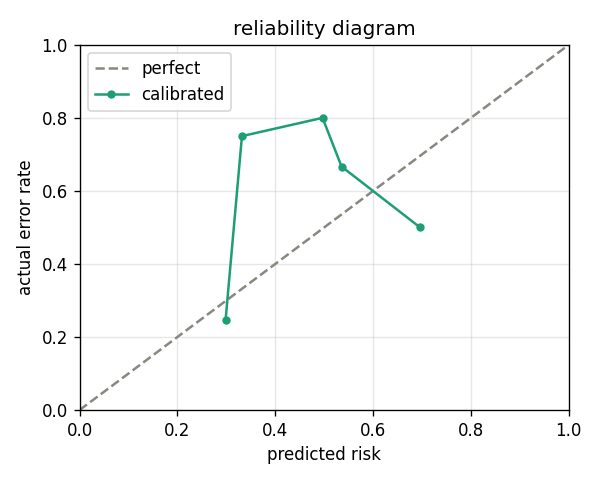
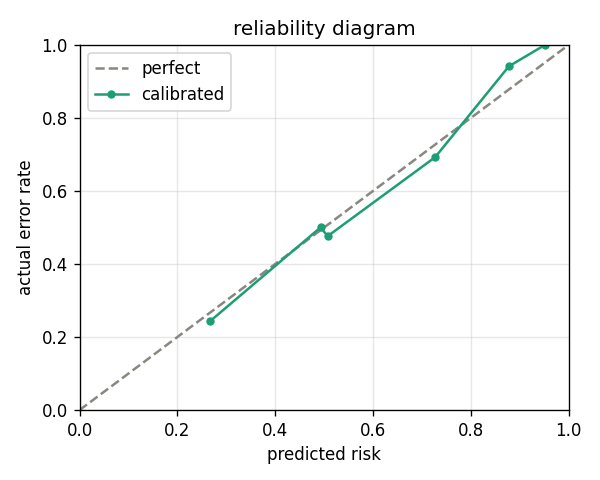
S1b-real: provable risk-controlled threshold (binomial UCB) + saved-eval re-analysis

diff --git a/tests/test_real_invoice.py b/tests/test_real_invoice.py
@@ -1,65 +1,118 @@
-"""§1b (real): the parser recovers source_text and the mapped gold fields from the
-dataset's nested string-encoded rows. Tests the parsing offline (no download)."""
-import json
+"""THE honest evaluation. Runs the real Ollama extractor over real invoice-OCR
+documents (mychen76/invoices-and-receipts_ocr_v1), fits the calibrator on the real
+calibration split, and measures the risk-coverage curve on the untouched real test
+split. Neither the OCR noise nor the model's errors are authored by us, so these
+numbers are honest -- comparable to production trust-gate reports.
 
-from gatekeeper.data.real_invoice import parse_row, _to_obj
+Needs Ollama running and the datasets library:
+    pip install -e ".[real,eval]"     (datasets + matplotlib)
+    python examples/real_invoice_eval.py --limit 120
 
+Note: downloads ~282MB the first time and runs the model over the split (a few
+minutes). Use --offline to sanity-check plumbing without Ollama (degenerate).
+"""
+import argparse
 
-def _make_row():
-    # reconstruct the dataset's storage format: JSON strings whose values are
-    # Python-repr strings (single quotes), as mychen76/...ocr_v1 stores them.
-    ocr = ['Invoice no: 40378170', 'Date of issue:', '10/15/2012',
-           'Seller:', 'Patel, Thompson and Montgomery', '356 Kyle Vista',
-           'Client:', 'Jackson, Odonnell and Jackson', 'SUMMARY', 'Total', '66,00']
-    labels = {'header': {'invoice_no': '40378170', 'invoice_date': '10/15/2012',
-                         'seller': 'Patel, Thompson and Montgomery 356 Kyle Vista'},
-              'summary': {'total_gross_worth': '$66,00'}}
-    raw_data = json.dumps({"ocr_words": str(ocr)})
-    parsed_data = json.dumps({"xml": "", "json": str(labels)})
-    return raw_data, parsed_data
-
-
-def test_parse_row_recovers_text_and_fields():
-    raw_data, parsed_data = _make_row()
-    source_text, gold = parse_row(raw_data, parsed_data)
-
-    assert "Invoice no: 40378170" in source_text
-    assert "Jackson, Odonnell and Jackson" in source_text          # OCR ordering preserved
-    assert gold["invoice_number"] == "40378170"
-    assert gold["invoice_date"] == "10/15/2012"
-    assert gold["vendor_name"].startswith("Patel, Thompson and Montgomery")
-    assert gold["total_amount"] == "$66,00"
+from gatekeeper import invoice_schema, is_correct
+from gatekeeper.data import RealInvoiceLoader, split_examples
+from gatekeeper.extract import LLMExtractor, OllamaClient, FakeClient
+from gatekeeper.signals import GroundingSignal, RuleSignal, SelfConsistencySignal
+from gatekeeper.calibration import (
+    LogisticCalibrator, build_training_data, expected_calibration_error,
+)
+from gatekeeper.evaluation import (
+    collect_risk_labels, selective_error_at_coverage, aurc,
+)
 
 
-def test_to_obj_handles_json_and_repr_and_passthrough():
-    assert _to_obj('{"a": 1}') == {"a": 1}                          # json
-    assert _to_obj("{'a': 1}") == {"a": 1}                          # python repr
-    assert _to_obj({"a": 1}) == {"a": 1}                            # already an object
-    assert _to_obj("plain text") == "plain text"                    # unparseable -> passthrough
+def _run(extractor, signal_gens, schema, examples):
+    records, gts = [], []
+    for ex in examples:
+        rec = extractor.extract(ex.to_record(), schema)
+        for gen in signal_gens:
+            gen.generate(rec, schema)
+        records.append(rec)
+        gts.append(ex.ground_truth)
+    return records, gts
 
 
-def test_parse_row_tolerates_direct_dict_labels():
-    # some rows may already be parsed into dicts by the datasets library
-    raw = {"ocr_words": ["Invoice no: 5", "Total", "10.00"]}
-    labels = {"header": {"invoice_no": "5", "invoice_date": "2026-01-01", "seller": "Acme"},
-              "summary": {"total_gross_worth": "10.00"}}
-    source_text, gold = parse_row(raw, labels)
-    assert gold["invoice_number"] == "5"
-    assert gold["vendor_name"] == "Acme"
+def coverage_at_precision(risks, errors, target_precision):
+    """Largest auto-approval coverage whose precision (1 - error) >= target."""
+    best = 0.0
+    for cov in [i / 100 for i in range(5, 101, 5)]:
+        if 1 - selective_error_at_coverage(risks, errors, cov) >= target_precision:
+            best = cov
+    return best
 
 
-def test_number_parsing_handles_european_decimals():
-    from gatekeeper.data.matching import to_number
-    assert to_number("66,00") == 66.0            # EU decimal comma
-    assert to_number("1.234,56") == 1234.56      # EU thousands + decimal
-    assert to_number("$1,240.00") == 1240.0      # US thousands + decimal
-    assert to_number("1,240") == 1240.0          # US thousands, no decimal
-    assert to_number("2340.75") == 2340.75
+def main():
+    p = argparse.ArgumentParser()
+    p.add_argument("--limit", type=int, default=120)
+    p.add_argument("--model", default="qwen2.5:7b")
+    p.add_argument("--consistency-n", type=int, default=0,
+                   help="add self-consistency with N samples (0 = off). Multiplies run time by N+1.")
+    p.add_argument("--offline", action="store_true")
+    args = p.parse_args()
+
+    schema = invoice_schema()
+    extractor = (LLMExtractor(FakeClient('{"invoice_number":"X","invoice_date":"2012-10-15","total_amount":"66","vendor_name":"Acme"}'))
+                 if args.offline else LLMExtractor(OllamaClient(model=args.model)))
+    signal_gens = [GroundingSignal(), RuleSignal()]
+    if args.consistency_n > 0:
+        sampler = (extractor if args.offline
+                   else LLMExtractor(OllamaClient(model=args.model), temperature=0.7))
+        signal_gens.insert(0, SelfConsistencySignal(sampler, n=args.consistency_n))
+        print(f"self-consistency ON (n={args.consistency_n}) -- extraction runs "
+              f"{args.consistency_n + 1}x, this will be slow.\n")
+
+    print(f"loading up to {args.limit} real invoices...")
+    examples = RealInvoiceLoader(limit=args.limit).load()
+    splits = split_examples(examples)
+    print(f"loaded {len(examples)}  ->  {splits.summary()}\n")
+
+    print("extracting + fitting calibrator on the real calibration split...")
+    cal_recs, cal_gts = _run(extractor, signal_gens, schema, splits.calibration)
+    X, y = build_training_data(cal_recs, cal_gts, schema)
+    calibrator = LogisticCalibrator().fit(X, y)
+    print(f"  fit on {len(X)} fields ({sum(y)} errors, {sum(y)/max(len(y),1):.0%} error rate)\n")
+
+    print("extracting + gating the real TEST split...")
+    test_recs, test_gts = _run(extractor, signal_gens, schema, splits.test)
+    for rec in test_recs:
+        calibrator.calibrate(rec, schema)
+    risks, errors = collect_risk_labels(test_recs, test_gts, schema)
+
+    import json
+    with open("real_eval_risks.json", "w") as fh:
+        json.dump({"risks": risks, "errors": errors}, fh)
+
+    print("\n=== HONEST RESULTS (real invoice OCR, unauthored errors) ===")
+    print(f"test fields: {len(errors)}, base error rate: {sum(errors)/max(len(errors),1):.1%}")
+    print(f"AURC: {aurc(risks, errors):.3f}   ECE: {expected_calibration_error(risks, errors):.3f}")
+    for cov in (0.5, 0.7, 0.9):
+        print(f"  at {cov:.0%} coverage -> {selective_error_at_coverage(risks, errors, cov):.1%} error "
+              f"({1 - selective_error_at_coverage(risks, errors, cov):.1%} precision)")
+    cov97 = coverage_at_precision(risks, errors, 0.97)
+    print(f"  coverage at >=97% precision: {cov97:.0%}   (compare to production trust-gate reports)")
+
+    from gatekeeper.policy import provable_risk_controlled_threshold
+    print("\nprovable operating points (guarantee holds with probability >= 90%):")
+    for alpha in (0.10, 0.25, 0.40):
+        t = provable_risk_controlled_threshold(risks, errors, alpha=alpha, delta=0.1)
+        approved = [(r, e) for r, e in zip(risks, errors) if r <= t]
+        cov = len(approved) / len(risks)
+        actual = (sum(e for _, e in approved) / len(approved)) if approved else 0.0
+        print(f"  guarantee error <= {alpha:.0%}  ->  auto-approve {cov:.0%}  "
+              f"(actual error on approved: {actual:.0%})")
+
+    try:
+        from gatekeeper.evaluation import plot_risk_coverage, plot_reliability
+        plot_risk_coverage(risks, errors, "real_risk_coverage.png")
+        plot_reliability(risks, errors, "real_reliability.png")
+        print("\nplots saved: real_risk_coverage.png, real_reliability.png")
+    except ImportError:
+        print("\n(install matplotlib for plots: pip install matplotlib)")
 
 
-def test_vendor_gold_strips_address():
-    from gatekeeper.data.real_invoice import _company_name
-    assert _company_name("Patel, Thompson and Montgomery 356 Kyle Vista, New James, MA") \
-        == "Patel, Thompson and Montgomery"
-    assert _company_name("Acme Freight Co.") == "Acme Freight Co."
-    assert _company_name(None) is None
+if __name__ == "__main__":
+    main()

diff --git a/gatekeeper/policy/risk_control.py b/gatekeeper/policy/risk_control.py
@@ -37,3 +37,63 @@ def risk_controlled_threshold(records, ground_truths, schema: Schema,
         if err_rate <= target_error:
             best_t = max(best_t, t)         # largest satisfying threshold = max coverage
     return best_t
+
+
+# --- provable variant (conformal-style risk control) --------------------------
+# The empirical threshold above is the "point-estimate" baseline that Trust-or-
+# Escalate (Jung et al., 2024) shows can fail to hold on small calibration sets.
+# Below we threshold on a (1 - delta) UPPER CONFIDENCE BOUND of the error rate
+# instead of the point estimate, giving a genuine guarantee.
+import math
+
+
+def _binom_cdf(k: int, n: int, p: float) -> float:
+    """P(X <= k) for X ~ Binomial(n, p)."""
+    if p <= 0.0:
+        return 1.0
+    if p >= 1.0:
+        return 1.0 if k >= n else 0.0
+    total = 0.0
+    for i in range(k + 1):
+        total += math.comb(n, i) * (p ** i) * ((1 - p) ** (n - i))
+    return min(1.0, total)
+
+
+def binomial_upper_bound(k: int, n: int, delta: float) -> float:
+    """(1 - delta) Clopper-Pearson upper confidence bound on the true rate given k
+    'successes' (here: errors) in n trials. The largest p with P(Bin(n,p) <= k) >= delta.
+    Wider (more conservative) when n is small -- you cannot certify a low rate from
+    few samples."""
+    if n == 0:
+        return 1.0
+    if k >= n:
+        return 1.0
+    lo, hi = 0.0, 1.0
+    for _ in range(60):                       # bisection: CDF is decreasing in p
+        mid = (lo + hi) / 2
+        if _binom_cdf(k, n, mid) >= delta:
+            lo = mid
+        else:
+            hi = mid
+    return lo
+
+
+def provable_risk_controlled_threshold(risks, errors, alpha: float,
+                                       delta: float = 0.1) -> float:
+    """Largest risk threshold t such that the (1 - delta) upper bound on the error
+    rate among auto-approved items (risk <= t) is <= alpha. Guarantee: with
+    probability >= 1 - delta, the true error rate among auto-approved items is <=
+    alpha. Multiplicity across candidate thresholds is handled with a Bonferroni
+    (union-bound) split of delta -- conservative but valid; fixed-sequence testing
+    would be a tighter alternative."""
+    paired = sorted(zip(risks, errors), key=lambda re: re[0])
+    if not paired:
+        return 0.0
+    thresholds = sorted({r for r, _ in paired})
+    delta_each = delta / len(thresholds)
+    best_t = 0.0
+    for t in thresholds:
+        approved = [e for r, e in paired if r <= t]
+        if binomial_upper_bound(sum(approved), len(approved), delta_each) <= alpha:
+            best_t = max(best_t, t)
+    return best_t

diff --git a/tests/test_policy.py b/tests/test_policy.py
@@ -78,3 +78,33 @@ def test_risk_controlled_threshold_honors_budget():
     approved2 = [e for r, e in zip(risks, errs) if r <= t2]
     assert sum(approved2) / len(approved2) <= 0.25   # 25% budget honored
     assert t2 >= t                                   # a looser budget approves at least as much
+
+
+def test_binomial_upper_bound_properties():
+    from gatekeeper.policy import binomial_upper_bound
+    assert binomial_upper_bound(10, 10, 0.1) == 1.0           # all errors -> no upper info
+    assert binomial_upper_bound(5, 10, 0.1) >= 0.5            # >= point estimate
+    assert binomial_upper_bound(0, 100, 0.1) < 0.1           # many clean samples -> tight
+    assert binomial_upper_bound(0, 3, 0.1) > 0.3             # few samples -> loose
+    # more data tightens the bound
+    assert binomial_upper_bound(0, 100, 0.1) < binomial_upper_bound(0, 10, 0.1)
+
+
+def test_provable_threshold_honors_guarantee_and_is_conservative():
+    from gatekeeper.policy import (provable_risk_controlled_threshold,
+                                   risk_controlled_threshold)
+    from gatekeeper import Record, Schema, FieldSpec, GroundTruth
+
+    # large, clean low-risk region -> provable can certify it
+    risks = [0.05] * 40 + [0.8] * 20
+    errors = [0] * 40 + [1] * 20
+    t = provable_risk_controlled_threshold(risks, errors, alpha=0.2, delta=0.1)
+    approved = [(r, e) for r, e in zip(risks, errors) if r <= t]
+    assert approved and sum(e for _, e in approved) / len(approved) <= 0.2   # guarantee holds
+    assert t == 0.05                                                          # certified clean region
+
+    # tiny sample: provable refuses to certify what the empirical method accepts
+    small_risks = [0.05] * 3 + [0.8] * 3
+    small_errors = [0] * 3 + [1] * 3
+    prov = provable_risk_controlled_threshold(small_risks, small_errors, alpha=0.2, delta=0.1)
+    assert prov == 0.0                                                        # can't certify from 3 samples

diff --git a/examples/analyze_saved.py b/examples/analyze_saved.py
@@ -1,0 +1,29 @@
+"""Re-analyze a saved eval (real_eval_risks.json) instantly -- no re-extraction.
+Try different operating points against risks/errors you already computed.
+
+    python examples/analyze_saved.py
+"""
+import json
+
+from gatekeeper.evaluation import aurc, selective_error_at_coverage
+from gatekeeper.calibration import expected_calibration_error
+from gatekeeper.policy import provable_risk_controlled_threshold
+
+
+def main():
+    with open("real_eval_risks.json") as fh:
+        d = json.load(fh)
+    risks, errors = d["risks"], d["errors"]
+    print(f"{len(errors)} fields, base error {sum(errors)/len(errors):.1%}")
+    print(f"AURC {aurc(risks, errors):.3f}   ECE {expected_calibration_error(risks, errors):.3f}\n")
+    print("provable operating points (>= 90% confidence):")
+    for alpha in (0.10, 0.20, 0.25, 0.30, 0.40):
+        t = provable_risk_controlled_threshold(risks, errors, alpha=alpha, delta=0.1)
+        appr = [(r, e) for r, e in zip(risks, errors) if r <= t]
+        cov = len(appr) / len(risks)
+        act = (sum(e for _, e in appr) / len(appr)) if appr else 0.0
+        print(f"  guarantee <= {alpha:.0%} error -> auto-approve {cov:.0%} (actual {act:.0%})")
+
+
+if __name__ == "__main__":
+    main()

diff --git a/examples/real_invoice_eval.py b/examples/real_invoice_eval.py
@@ -82,6 +82,10 @@ def main():
         calibrator.calibrate(rec, schema)
     risks, errors = collect_risk_labels(test_recs, test_gts, schema)
 
+    import json
+    with open("real_eval_risks.json", "w") as fh:
+        json.dump({"risks": risks, "errors": errors}, fh)
+
     print("\n=== HONEST RESULTS (real invoice OCR, unauthored errors) ===")
     print(f"test fields: {len(errors)}, base error rate: {sum(errors)/max(len(errors),1):.1%}")
     print(f"AURC: {aurc(risks, errors):.3f}   ECE: {expected_calibration_error(risks, errors):.3f}")
@@ -90,6 +94,16 @@ def main():
               f"({1 - selective_error_at_coverage(risks, errors, cov):.1%} precision)")
     cov97 = coverage_at_precision(risks, errors, 0.97)
     print(f"  coverage at >=97% precision: {cov97:.0%}   (compare to production trust-gate reports)")
+
+    from gatekeeper.policy import provable_risk_controlled_threshold
+    print("\nprovable operating points (guarantee holds with probability >= 90%):")
+    for alpha in (0.10, 0.25, 0.40):
+        t = provable_risk_controlled_threshold(risks, errors, alpha=alpha, delta=0.1)
+        approved = [(r, e) for r, e in zip(risks, errors) if r <= t]
+        cov = len(approved) / len(risks)
+        actual = (sum(e for _, e in approved) / len(approved)) if approved else 0.0
+        print(f"  guarantee error <= {alpha:.0%}  ->  auto-approve {cov:.0%}  "
+              f"(actual error on approved: {actual:.0%})")
 
     try:
         from gatekeeper.evaluation import plot_risk_coverage, plot_reliability

diff --git a/gatekeeper/policy/__init__.py b/gatekeeper/policy/__init__.py
@@ -2,6 +2,10 @@
 Cost-aware per-field thresholds, plus a risk-controlled threshold for a target
 error budget."""
 from .cost_aware import CostAwarePolicy
-from .risk_control import risk_controlled_threshold
+from .risk_control import (
+    risk_controlled_threshold, provable_risk_controlled_threshold,
+    binomial_upper_bound,
+)
 
-__all__ = ["CostAwarePolicy", "risk_controlled_threshold"]
+__all__ = ["CostAwarePolicy", "risk_controlled_threshold",
+           "provable_risk_controlled_threshold", "binomial_upper_bound"]

diff --git a/gatekeeper/__init__.py b/gatekeeper/__init__.py
@@ -19,7 +19,10 @@ from .calibration import (
     LogisticCalibrator, build_training_data, naive_risk,
     reliability_table, expected_calibration_error,
 )
-from .policy import CostAwarePolicy, risk_controlled_threshold
+from .policy import (
+    CostAwarePolicy, risk_controlled_threshold,
+    provable_risk_controlled_threshold, binomial_upper_bound,
+)
 from .evaluation import (
     collect_risk_labels, risk_coverage_curve, selective_error_at_coverage,
     aurc, ablate_signals,
@@ -41,6 +44,7 @@ __all__ = [
     "LogisticCalibrator", "build_training_data", "naive_risk",
     "reliability_table", "expected_calibration_error",
     "CostAwarePolicy", "risk_controlled_threshold",
+    "provable_risk_controlled_threshold", "binomial_upper_bound",
     "collect_risk_labels", "risk_coverage_curve", "selective_error_at_coverage",
     "aurc", "ablate_signals",
     "FeedbackLoop", "corrections_to_training_data", "select_escalated_records",